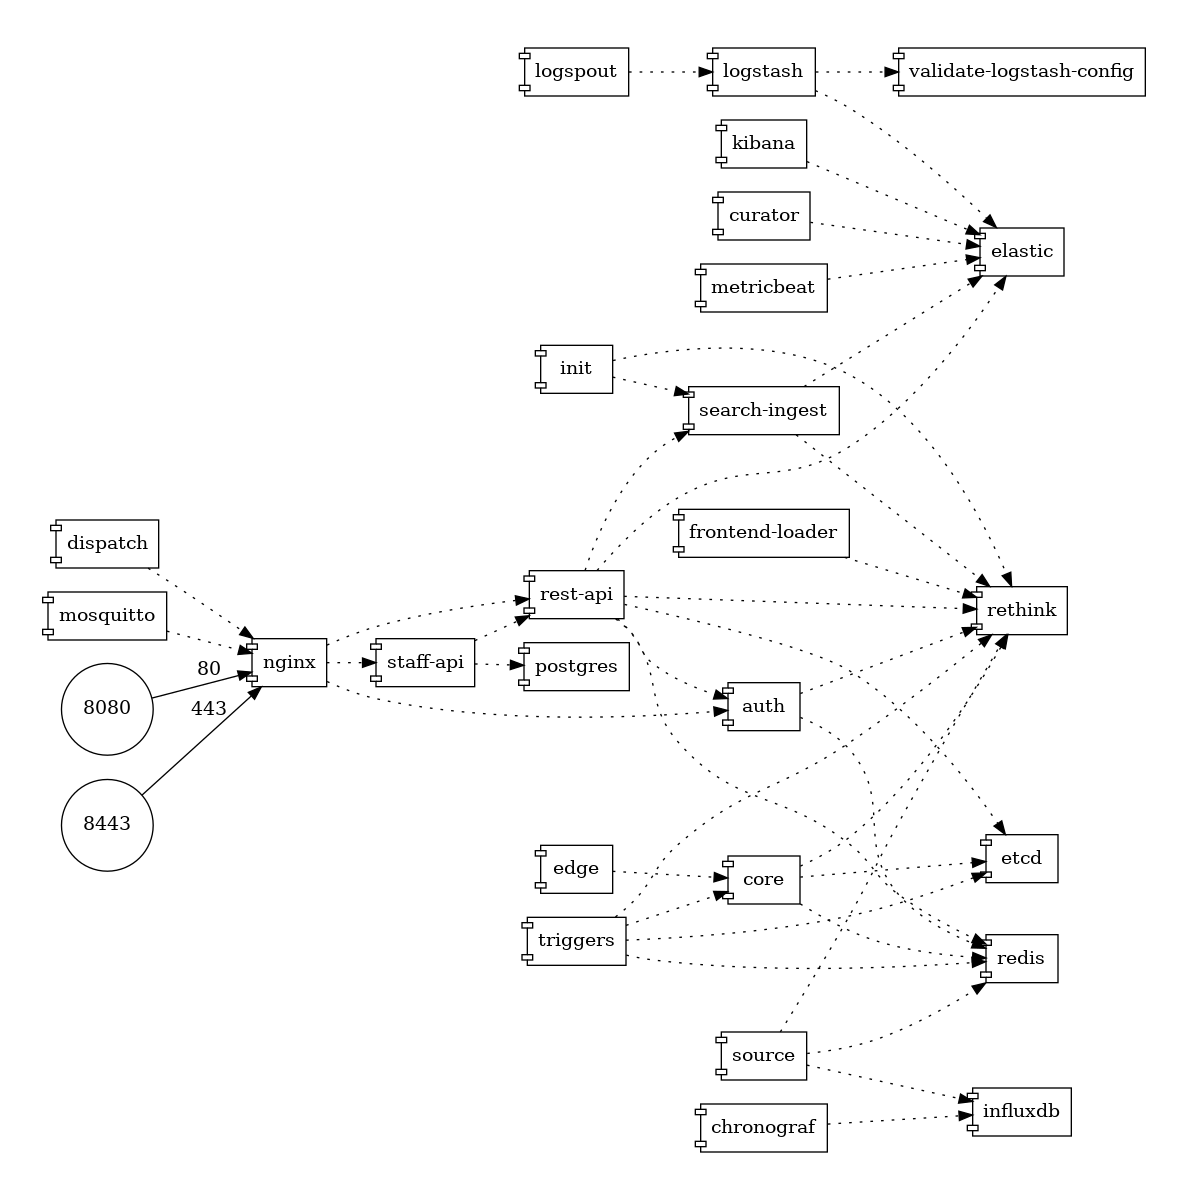
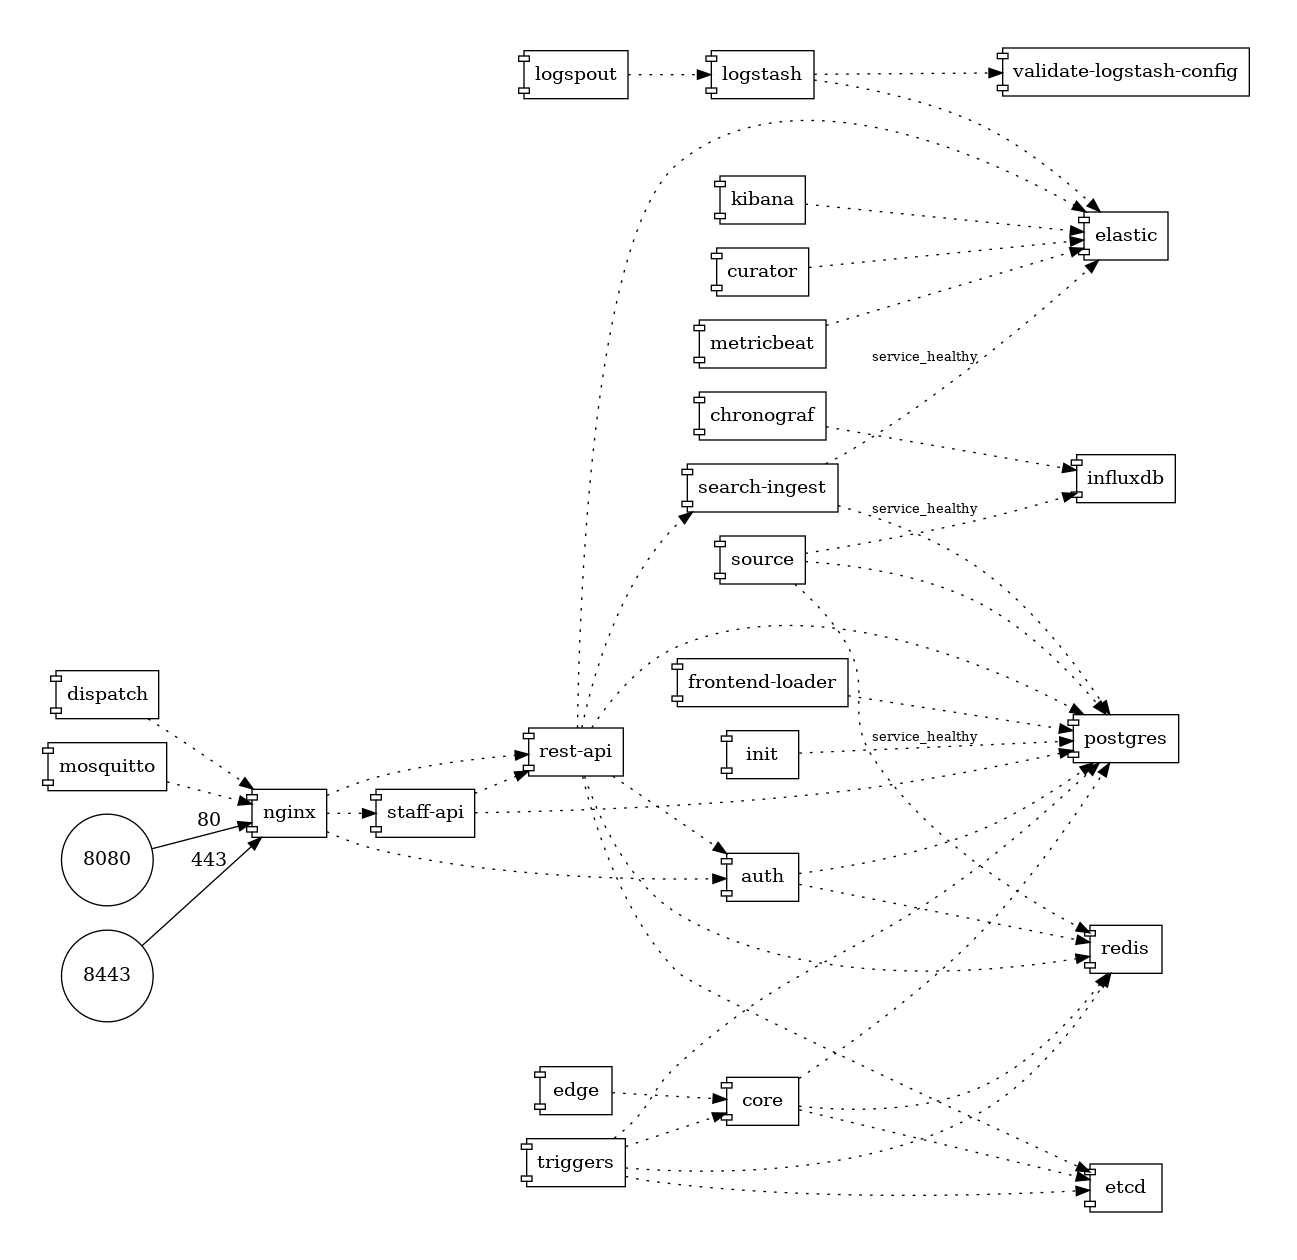
refactor: migrate to postgres (#137)
adds an upgrade helper script for migrating existing data

diff --git a/README.md b/README.md
@@ -29,6 +29,7 @@ For use when testing, improving or experimenting with PlaceOS on a local machine
     - [`$ placeos changelog`](#-placeos-changelog)
     - [`$ placeos update`](#-placeos-update)
     - [`$ placeos upgrade`](#-placeos-upgrade)
+    - [`$ placeos migrate`](#-placeos-migrate)
     - [`$ placeos uninstall`](#-placeos-uninstall)
   - [Service Graph](#service-graph)
 <!-- /toc -->
@@ -193,6 +194,18 @@ If VERSION is omitted, defaults to the most recent stable version.
 Arguments:
     --list                  Lists versions of PlaceOS Local.
     -q, --quiet             Do not write command logs to STDOUT.
+    -h, --help              Display this message.
+```
+
+### `$ placeos migrate`
+
+```shell-session
+Usage: placeos migrate
+
+Run a RethinkDB data migration in the local environment.
+
+Arguments:
+    -a, --appends           Don't clean tables before loading RethinkDB data. Defaults to True
     -h, --help              Display this message.
 ```
 
